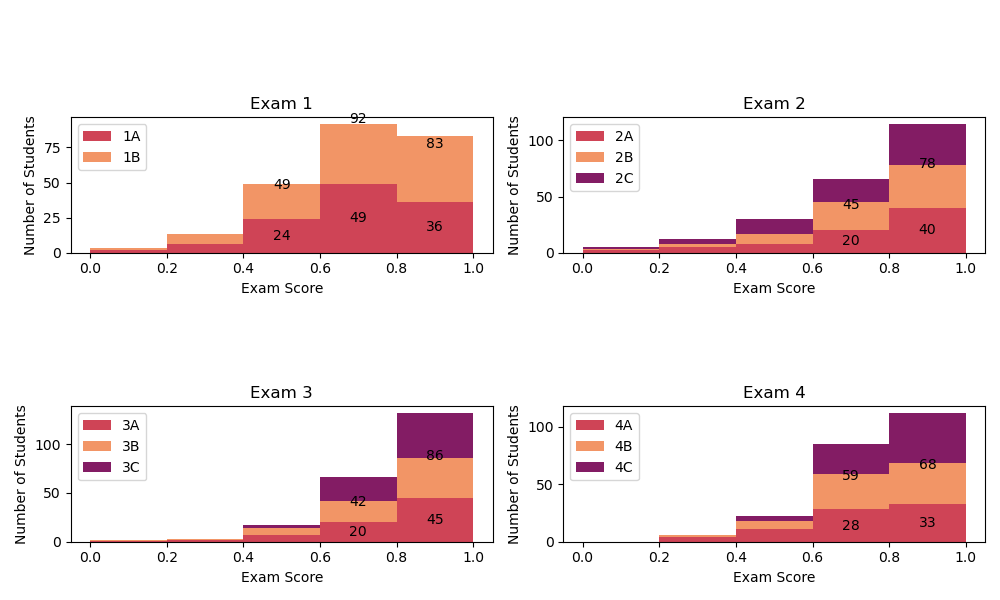
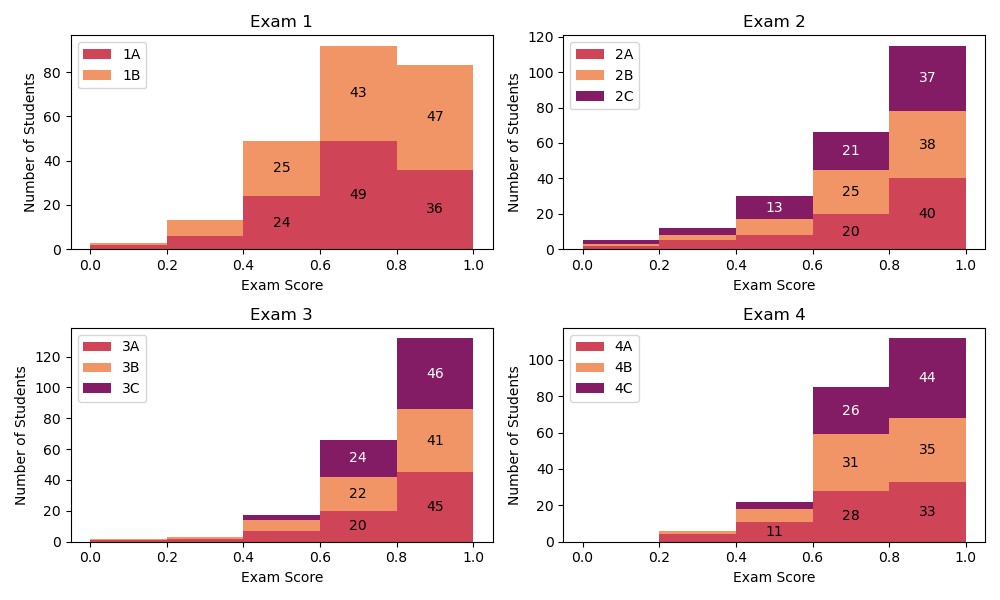
Fixed bug with observed scores plot not outputting numbers correctly.

diff --git a/analyses/observed_score_statistics_and_distributions.py b/analyses/observed_score_statistics_and_distributions.py
@@ -86,46 +86,34 @@ def add_os_subplot(exam_scores, axis, bins, exam_keys, title):
     # returns (n, bins, patches)
     # n is a list of arrays (one for each dataset) representing heights
     # patches is a list of lists of Patch objects (Rectangle)
+    # Note: patches structure depends on matplotlib version, but typically patches[i] is list of rects for i-th dataset.
     counts, _, patches = axis.hist(
         data_list, bins, histtype="bar", stacked=True, label=exam_keys
     )
 
-    # Text annotation logic
-    # We need to calculate the cumulative height to place text correctly in stacked bars
-
-    # Flatten counts if single dataset, but here data_list is list of lists, so counts is list of arrays
-    # counts structure: [array(bin1_count, bin2_count...), array(...)] corresponding to layers
-
-    # Initialize bottom accumulator
-    bottoms = np.zeros(len(bins) - 1)
-
-    text_color = ["black", "black", "white"]
+    text_color = ["black", "black", "white", "white", "black"] # Match palette length better or just sufficient
 
     # Iterate through layers (exams)
-    for i, layer_counts in enumerate(counts):
-        # Iterate through bins
-        for j, count in enumerate(layer_counts):
-            height = count
-            if height >= 20:  # Threshold for showing label
-                # Calculate center position
-                # bin_edges are bins[j] and bins[j+1]
-                x_center = (bins[j] + bins[j + 1]) / 2
-                y_center = bottoms[j] + height / 2
-
-                # Dynamic text color logic
-                # Simplification: if bar is tall enough, use contrast color from palette
-
-                color = text_color[i % len(text_color)]
+    # patches is a list of BarContainer objects (which behave like lists of Rectangles) or list of lists
+    for i, layer_patches in enumerate(patches):
+        # Determine color for this layer
+        color = text_color[i % len(text_color)]
+        
+        for rect in layer_patches:
+            height = rect.get_height()
+            if height >= 10:  # Lowered threshold slightly to ensure visibility, user noted "white text never shows"
+                x_center = rect.get_x() + rect.get_width() / 2
+                y_center = rect.get_y() + height / 2
+                
                 axis.text(
                     x_center,
                     y_center,
                     f"{height:.0f}",
                     ha="center",
-                    va="center",
+                    va="center", # Reverted to center because using exact rect center
                     color=color,
+                    fontsize=10,
                 )
-
-            bottoms[j] += height  # Stack up
 
     axis.legend(prop={"size": 10})
     axis.set_xlabel("Exam Score")
